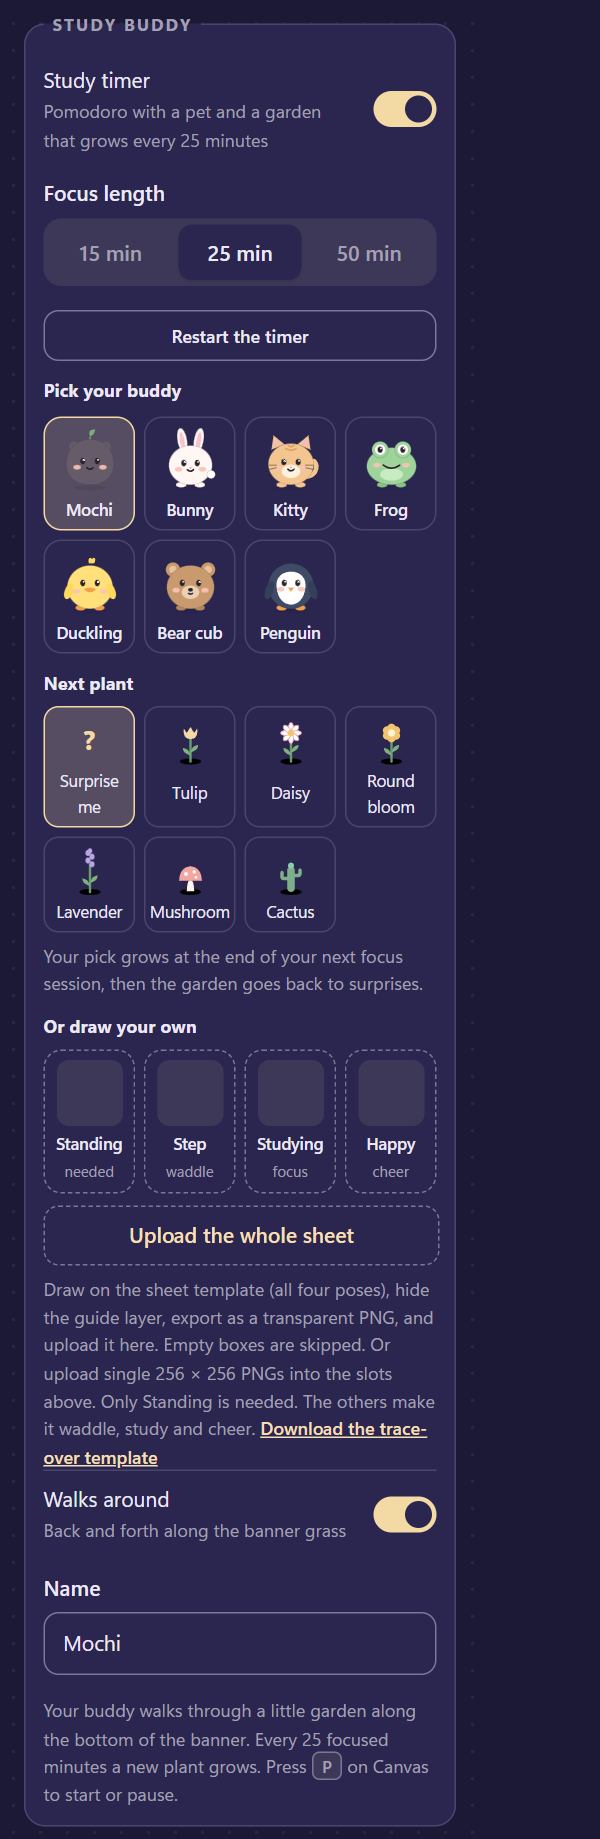
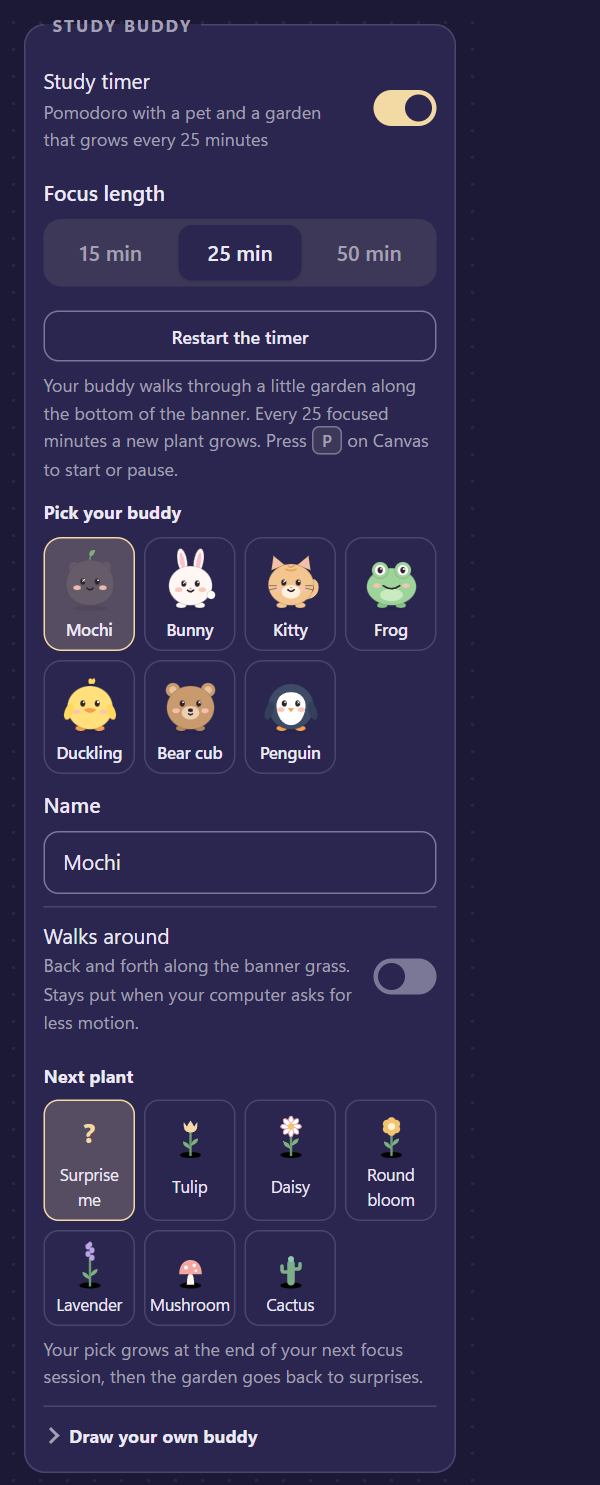
3.7: the approved ui changes, manual, changelog and new screenshots

diff --git a/MANUAL.md b/MANUAL.md
@@ -2,17 +2,17 @@
 
 everything blush for canvas does, and where to find it. if you haven't installed it yet, start with the [quickstart](README.md#quickstart).
 
-most settings live in the popup. click the blush icon in chrome's toolbar to open it, and every change saves right away.
+most settings live in the popup. click the blush icon in chrome's toolbar to open it, and every change saves right away. the everyday switches come first, and the deeper ones (making your own palette, drawing your own buddy) are folded away until you open them. the bottom of the popup links back to this manual and shows which version you have.
 
 - [the banner](#the-banner)
 - [the to-do column](#the-to-do-column)
-- [your dashboard](#your-dashboard)
+- [clean up canvas](#clean-up-canvas)
 - [quick jump and shortcuts](#quick-jump-and-shortcuts)
 - [super declutter](#super-declutter)
 - [the study buddy](#the-study-buddy)
 - [your look](#your-look)
 - [you](#you)
-- [speed and focus](#speed-and-focus)
+- [speed](#speed)
 - [your school's own address](#your-schools-own-address)
 - [updating without losing your garden](#updating-without-losing-your-garden)
 - [when something looks off](#when-something-looks-off)
@@ -24,8 +24,8 @@ most settings live in the popup. click the blush icon in chrome's toolbar to ope
 the banner sits above every canvas page. on the dashboard it's full size, and on other pages it shrinks to a slim strip. the arrow button on the right switches between the two.
 
 - **greeting and clock.** the greeting uses your canvas name, or the name you set in the popup under **you**.
-- **today's focus.** on the dashboard, type what you want to get done and press enter. it turns into a checkbox you can tick off.
-- **next up.** your nearest due item. click it to open the assignment.
+- **today's focus.** on the dashboard, type one thing you want to get done and press enter. it turns into a checkbox you can tick off.
+- **next up.** your nearest due item, with how long you have left when it's due within a day, like "9:59 PM · in 1h 15m". click it to open the assignment. when something is overdue, a small **+1 overdue** line under it opens the to-do column at the overdue group.
 - **the picture.** a public domain painting from the art institute of chicago, a new one each day. the shuffle button swaps it, and the name of the painting links to it. under **banner** in the popup you can pick paintings, your own photos, both, or stars.
 
 drag a picture from your computer onto the banner to add it to your photos.
@@ -51,19 +51,25 @@ the slim banner on course pages is about 1735 x 135 on a 1920 x 1080 screen.
 
 the column on the right shows your week. canvas shrinks to make room for it, and on the dashboard it replaces canvas's own to-do sidebar. press `t` or the `»` button to fold it into a slim rail, and `t` again to open it.
 
-- **due soon** groups everything from your canvas planner into overdue, today, tomorrow, the next 7 days and later. checking an item marks it done in your real canvas planner too. submitted work shows a submitted tag, and missing work shows a missing tag.
+- **due soon** groups everything from your canvas planner into overdue, today, tomorrow, the next 7 days and later, with a count on each, like "TODAY · 2". a group worth 100 points or more shows its total too.
+- **each item** shows when it's due first. under today and tomorrow that's just the time, plus "in 1h 15m" in bold when it's due within a day. overdue items say how late they are, like "1 day late". the course and points sit on the line below, and submitted or missing tags sit next to the time.
+- **checking an item** marks it done in your real canvas planner too.
+- **overdue** shows the 3 most recent items, with missing ones first. **show 4 more overdue** opens the rest.
 - **my list** is your own to-do list for anything canvas doesn't know about. it stays in chrome on your computer.
 - **the ring** shows how much of this week's work is done, next to your day streak. you keep the streak by checking off at least one thing a day.
-- **cheers.** checking something off pops up a small note like "Progress, logged." you can turn these off under **speed and focus**.
+- **cheers.** checking something off pops up a small note like "Progress, logged." you can turn these off under **speed**.
 
-the column loads from a saved copy first, so it shows up right away and then refreshes from canvas.
+the column shows a saved copy right away, then checks canvas again, so something you just submitted shows up as submitted. the line at the bottom says when it last updated, and the refresh button next to it checks again. if canvas can't be reached it says so and shows the time of the list you're looking at.
 
-## your dashboard
+the first time you open canvas with blush, a small card at the top of the column shows the main keys. tap **got it** and it doesn't come back.
+
+## clean up canvas
 
 ![the dashboard with the header, course images and card icons hidden](docs/images/dashboard-tidy.png)
 
-under **dashboard** in the popup, three switches tidy up canvas's own dashboard:
+under **clean up canvas** in the popup, four switches tidy up canvas itself:
 
+- **hide canvas extras** hides the footer, the canvas logo and canvas's own to-do list.
 - **hide the dashboard header** hides the dashboard title, the switch to new dashboard view button and its menu.
 - **hide course images** shows every card with its plain color instead of the course picture. photos you added to a card yourself still show.
 - **hide card icons** hides the row of announcements, discussions and assignments icons under each card.
@@ -72,9 +78,11 @@ under **dashboard** in the popup, three switches tidy up canvas's own dashboard:
 
 ![quick jump open with the search deep](docs/images/quick-jump.png)
 
-press `ctrl+k` (`cmd+k` on a mac) or `/` on any canvas page. type part of a course name, a section, an assignment, or a page you opened recently, then press enter. `ctrl+enter` opens it in a new tab. try "bio grades" to jump straight to the grades of a biology course.
+press `ctrl+k` (`cmd+k` on a mac) or `/` on any canvas page. type part of a course name, a section, an assignment, or a page you opened recently, then press enter. `ctrl+enter` opens it in a new tab.
 
-the highlighted result starts loading while you look at it, so enter usually lands right away.
+type a course's name and its open assignments come right after it, marked **due** with how long you have left. a few of its sections follow. name the section too, like "bio grades", to jump straight there.
+
+when the highlighted result is a course page or a section, it starts loading while you look at it, so enter usually lands right away.
 
 ![the keyboard shortcut list](docs/images/shortcuts.png)
 
@@ -106,7 +114,7 @@ inside a course:
 | `g` then `f` | files |
 | `g` then `p` | pages |
 
-single-key shortcuts pause while you type, and you can turn them off under **speed and focus**.
+single-key shortcuts pause while you type, and you can turn them off under **speed**. hover any of blush's icon buttons to see what it does and its key.
 
 ## super declutter
 
@@ -117,9 +125,12 @@ for nights when the whole dashboard is too much. tap **AHHH I'M STRESSED. SUPER 
 - checking an item marks it done in your canvas planner and crosses it off.
 - when nothing is due tonight, it says so and shows the next thing coming up.
 - your buddy holds a YOU GOT THIS!!! sign. tap the sign or your buddy for a secret quote.
+- **start a focus** with the button under the list. it starts the study timer with your buddy, and while it runs the button turns into a countdown.
+- if something from before today is still open, one quiet line says so. tap it to see those items. they can wait until tonight is done.
 - it stays on, even after a refresh, until you tap **I feel better. Bring my dashboard back.** clicking an assignment still opens it normally.
+- it turns itself off the next morning after 5 am, with a little "Morning. Your dashboard is back."
 
-the button on the banner shows on the dashboard and hides when the window is narrower than 900 px. turn on **stressed sign in the grass** under **banner** to move it onto a little wooden sign next to the pomodoro sign instead. the one in the popup works from any page, and the calm screen shows up once you're back on the dashboard.
+the button on the banner shows on the dashboard and hides when the window is narrower than 900 px. turn on **stressed sign in the grass** under **banner** to move it onto a little wooden sign next to the pomodoro sign instead. the button in the popup takes your canvas tab to the dashboard. from a page that isn't canvas, it opens the next time you visit your dashboard.
 
 ## the study buddy
 
@@ -127,10 +138,10 @@ the button on the banner shows on the dashboard and hides when the window is nar
 
 a pomodoro timer with a little pet and a garden along the bottom of the banner.
 
-- **the timer** lives on the tiny pomodoro sign in the grass. press play, or `p` anywhere on canvas. focus sessions are 15, 25 or 50 minutes (pick under **study buddy** in the popup). breaks start on their own, 5 minutes after a short session, 10 after a 50, and 15 after every fourth.
+- **the timer** lives on the tiny pomodoro sign in the grass. press play, or `p` anywhere on canvas. while you focus the sign only shows pause, so a slip can't skip your session. skip shows up when you pause or take a break. focus sessions are 15, 25 or 50 minutes (pick under **study buddy** in the popup). breaks start on their own, 5 minutes after a short session, 10 after a 50, and 15 after every fourth.
 - **the timer keeps going** across pages and tabs, and chrome sends a notification when a session ends.
 - **the garden** grows one plant for every 25 focused minutes, and your buddy levels up as it grows. hover the sign to see the count.
-- **your buddy** walks back and forth through the grass, stops to read while you focus, and hops when a plant grows. tap it to make it stop and stay put, and tap again to let it wander. it only talks when you tap it.
+- **your buddy** walks back and forth through the grass, stops to read while you focus, and hops when a plant grows. tap it to make it stop and stay put, and tap again to let it wander. it only talks when you tap it. if your computer is set to reduce motion, your buddy stays put unless you turn **walks around** on.
 
 ![the study buddy section of the popup with the seven buddies](docs/images/popup-study.png)
 
@@ -146,7 +157,7 @@ under **study buddy** in the popup you can pick from seven buddies (mochi, a bun
 
 the `templates/` folder has two files to draw on, and the popup has a link to download the sheet. `pet-template-256.png` is one 256 px box. `pet-template-sheet.png` has all four poses side by side, with guide lines and a faint mochi to trace. draw on a new layer, hide the guide layer, and export only your drawing as a transparent PNG.
 
-upload single poses into their slots under **study buddy > or draw your own**, or upload the whole sheet with **upload the whole sheet**. blush cuts out each pose and skips empty boxes. your buddy switches to your drawing and shows up as "yours" in the picker.
+open **draw your own buddy** under **study buddy** in the popup. upload single poses into their slots, or upload the whole sheet with **upload the whole sheet**. blush cuts out each pose and skips empty boxes. your buddy switches to your drawing and shows up as "yours" in the picker.
 
 ## your look
 
@@ -164,12 +175,14 @@ turn on **use my colors** to swap dusty pink for your own palette.
 
 - start from a preset: blush, sage, lavender, ocean, cocoa, night or night sky. night sky also switches the banner to the stars.
 - or upload a palette. it takes a palette picture, a coolors link, `.ase` and `.gpl` files, or any file with hex codes in it. you can also paste hex codes or a coolors link.
-- tap a role (accent, background, cards, text, sidebar), then a swatch to fill it. **auto-pick light** and **auto-pick dark** build a full theme from the palette for you.
+- open **make your own palette** to upload or paste one, then tap a role (accent, background, cards, text, sidebar) and a swatch to fill it. **auto-pick light** and **auto-pick dark** build a full theme from the palette for you.
 - blush warns you when text gets hard to read on your background.
 
 ### fonts
 
 paste a google fonts link, or just the font's name, for body text and headings. the popup links to google fonts so you can browse.
+
+### text size
 
 the **text size** slider, from 85% to 130%, makes everything on your canvas pages bigger or smaller, blush included. it works like chrome's zoom, but only on canvas.
 
@@ -191,12 +204,11 @@ one button switches all of canvas to **arik hand**, a handwriting font that come
 - **your greetings.** write your own greeting for morning, afternoon, evening and late night, like "Lock in, {name}!". `{name}` turns into your name, and a box you leave empty keeps the normal greeting.
 - **your quotes.** type your own motivational quotes, one per line, up to 100. your buddy says them when you tap it, on the banner and on super declutter. they come up twice as often as the built-in ones, or turn on **only my quotes** to hear just yours.
 
-## speed and focus
+## speed
 
 | switch | what it does |
 | --- | --- |
-| calm mode | turns off canvas's own animations |
-| declutter | hides the footer, card images and the duplicate to-do list |
+| turn off canvas animations | menus and trays open right away without sliding or fading |
 | instant navigation | starts loading a link the moment you press it, so pages open faster |
 | single-key shortcuts | the one-letter shortcuts above. `ctrl+k` always works |
 | cheers | the little notes when you finish something |
@@ -225,6 +237,6 @@ chrome treats an unpacked extension in a different folder as a different extensi
 
 - **parts of a page stay light in dark mode.** pages built with canvas's newer components, and tools embedded from other sites, can stay partly light. the text editor you type assignments into also stays light, because it runs in a separate frame.
 - **the stressed button is missing.** it only shows on the dashboard banner, and it hides when the window is narrower than 900 px. if **stressed sign in the grass** is on, look for the sign next to the pomodoro sign. the button at the top of the popup always works.
-- **your buddy stands still.** check that **walks around** is on under **study buddy**.
+- **your buddy stands still.** check that **walks around** is on under **study buddy**. with reduce motion on in your computer's settings, it only walks when that switch is on.
 - **a font won't load.** the box under the font field says why. check the spelling against google fonts.
 - **nothing changed after an update.** click the reload arrow on the blush card, then refresh canvas.

diff --git a/CHANGELOG.md b/CHANGELOG.md
@@ -1,5 +1,37 @@
 # changelog
 
+## 3.7.0
+
+to-do column
+
+- each item shows when it's due first, with "in 1h 15m" in bold when it's within a day and "1 day late" when it's overdue. the course and points move to the line below, and a wrapped line never starts with a stray dot
+- the column checks canvas again every time you open the dashboard, so something you just submitted shows as submitted. the bottom line says when it last updated, has a refresh button, and tells you when canvas couldn't be reached
+- groups show a count, and their points when they add up to 100 or more
+- overdue shows the 3 most recent items, missing ones first, with a button for the rest
+- a one-time welcome card shows the main keys
+
+banner and quick jump
+
+- next up shows how long you have left, and a "+1 overdue" line that opens the column at the overdue group
+- the focus box says "One thing, then press Enter"
+- quick jump puts a course's open assignments right after the course, labels sections as sections, shows 4 of them until you name one, and no longer cuts off its labels
+- icon buttons show what they do and their key when you hover them
+
+super declutter
+
+- start a focus session with your buddy right from the calm screen
+- one quiet line mentions work from before today that's still open, and opens to show it
+- it turns itself off the next morning after 5 am
+- the popup's button takes your canvas tab to the dashboard
+
+popup and study buddy
+
+- the everyday switches come first, and making your own palette and drawing your own buddy fold away. the footer links to the manual
+- clearer names: "turn off canvas animations", and "hide canvas extras" in a new "clean up canvas" section
+- the pomodoro sign's buttons are easier to hit, and only pause shows while you focus, so a slip can't skip the session
+- your buddy stays put when your computer asks for less motion, unless you turn walking on
+- wording fixes: "to-do column" everywhere, and "paintings + mine"
+
 ## 3.6.0
 
 fixes
